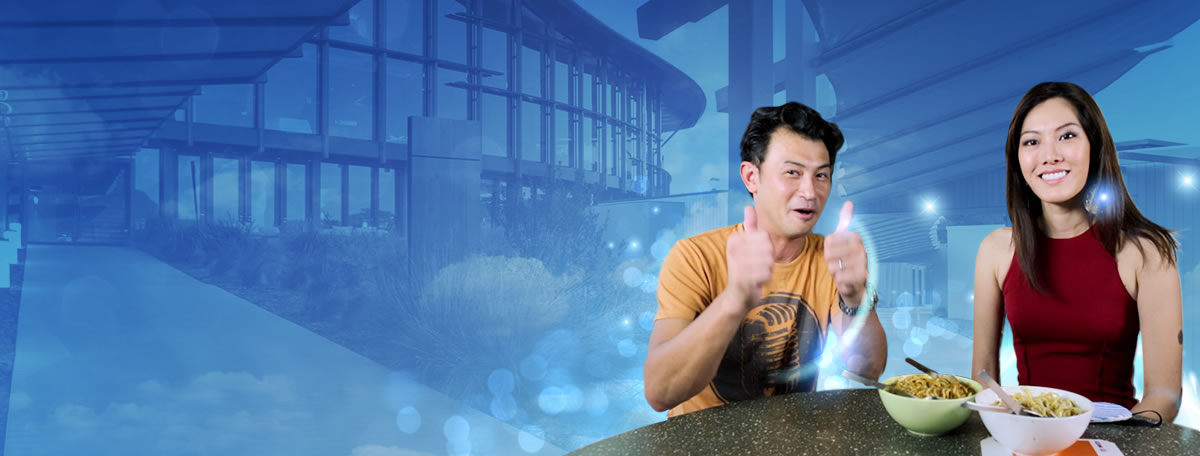
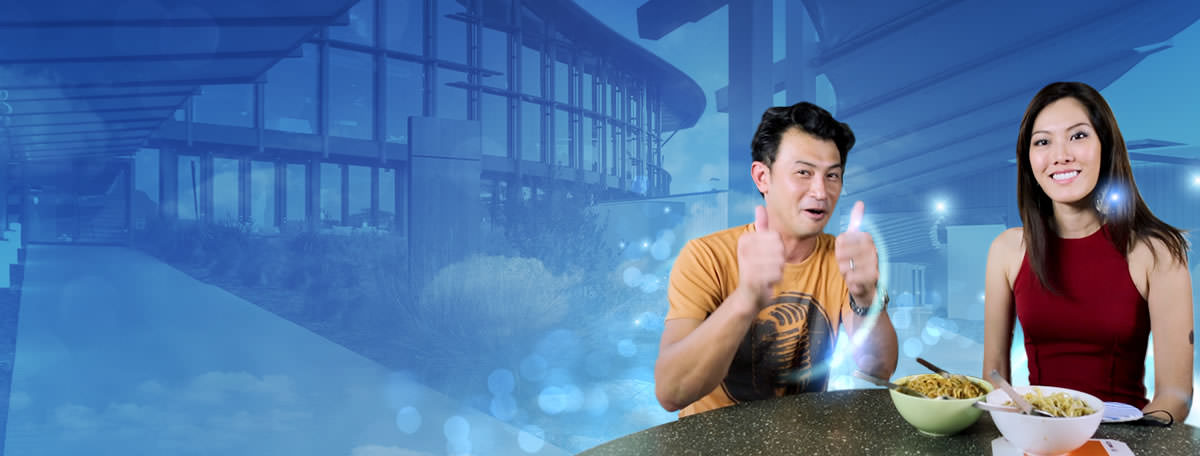
last of the category background changes
hopefully

Changed region(s): [[0.4933, 0.1535, 1.0, 1.0], [0.4625, 0.9825, 0.4933, 1.0]]

diff --git a/css/style.css b/css/style.css
@@ -1509,7 +1509,7 @@ footer .footerSocial a {
 }
 
 .categoryInformation {
-  padding-top: 13.33333em;
+  padding-top: 9.8em;
   z-index: 20;
   position: relative;
   color: white;
@@ -2449,7 +2449,7 @@ $break-xlarge: 1180px;*/
   }
 
   .categoryInformation {
-    padding-top: 10.66667em;
+    padding-top: 6.66667em;
   }
 
   .heroHomeBg, .heroSeriesBg {

diff --git a/scss/partials/_breakpoints.scss b/scss/partials/_breakpoints.scss
@@ -149,6 +149,7 @@ $break-xlarge: 1180px;*/
 	    max-width: none;
 	    width: auto;
 	}
+
 	
 	.heroVideoBg{
 		height: 102%;
@@ -250,7 +251,7 @@ $break-xlarge: 1180px;*/
 		width: 100%;
 	}
 	.categoryInformation{
-			padding-top: em(160px);
+			padding-top: em(100px);
 	}
 	.heroHomeBg,.heroSeriesBg{
 		height: 142%;

diff --git a/scss/modules/_hero-category.scss b/scss/modules/_hero-category.scss
@@ -10,7 +10,7 @@
 
 
 .categoryInformation{
-	padding-top: em(200px);
+	padding-top: em(147px);
 	z-index: 20;
 	position: relative;
 	color: $color-copy-light;
